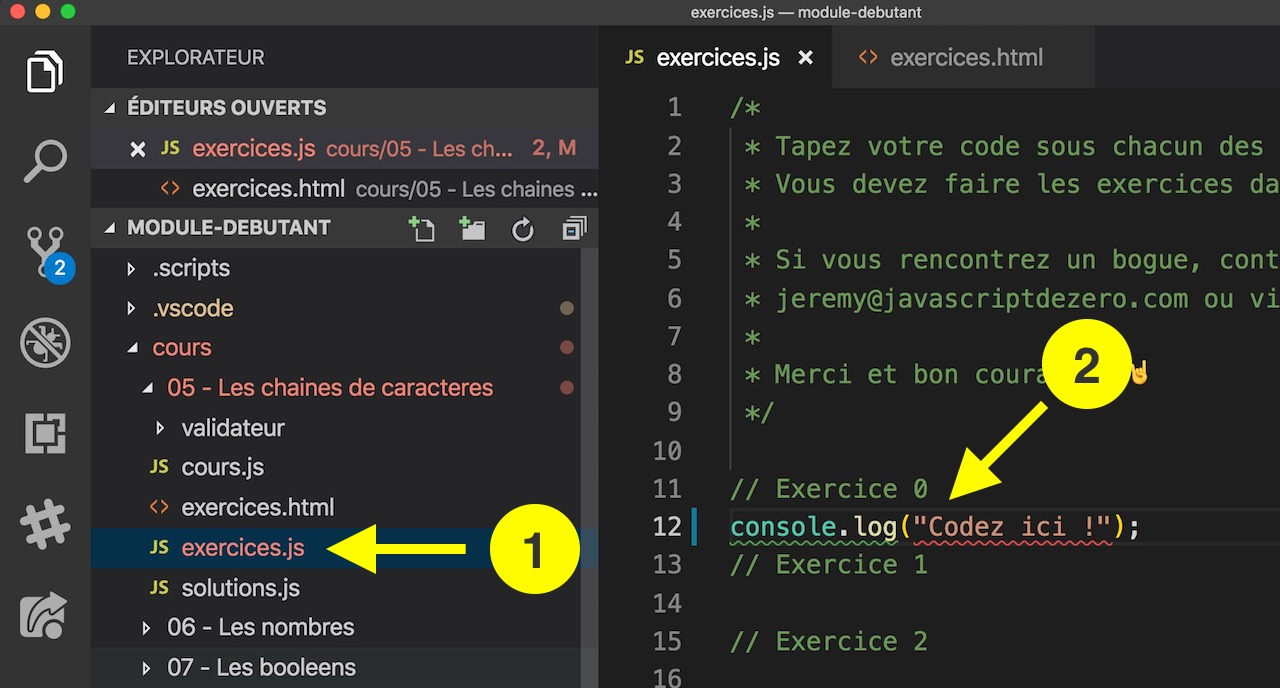
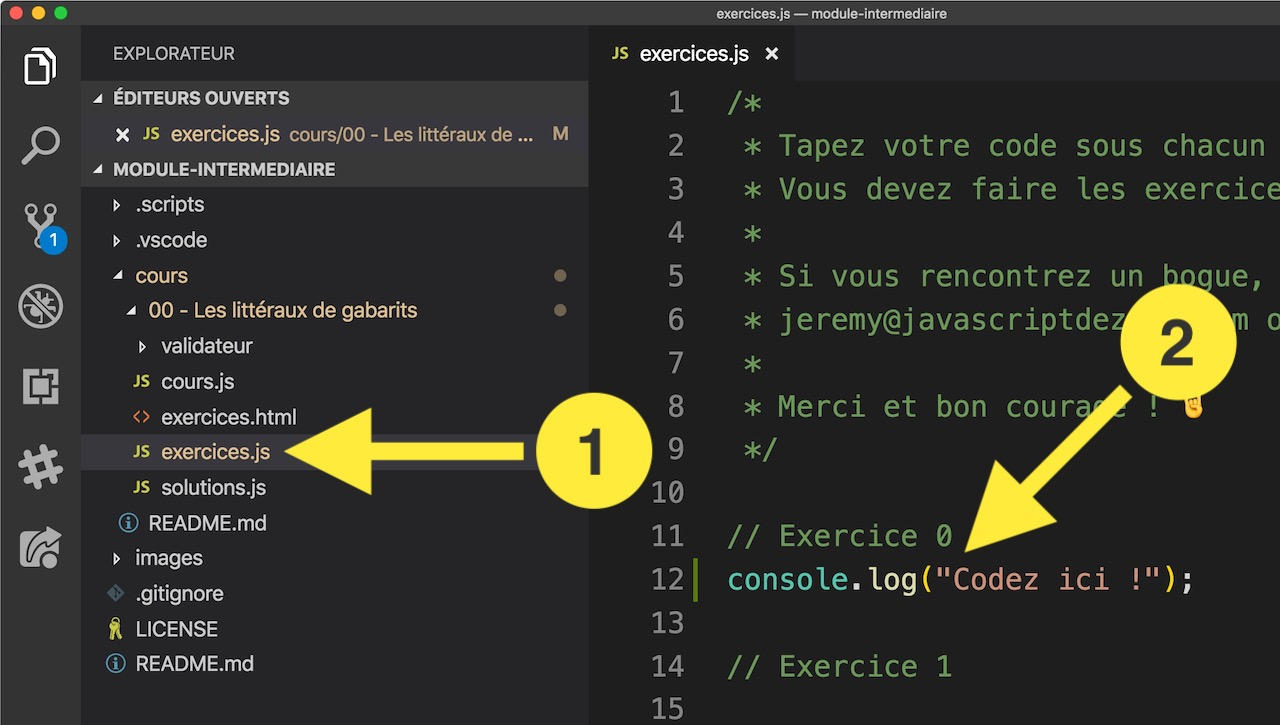
Utilisation de screenshots du module intermédiaire pour la doc

diff --git a/cours/README.md b/cours/README.md
@@ -29,7 +29,7 @@ Voici les instructions à suivre pour faire les exercices depuis Visual Studio C
    5. Une fois le téléchargement effectué vous aurez un nouveau répertoire **Documents/module-intermediaire**. Visual Studio Code va vous demander dans une popup en bas à droite si vous voulez ouvrir le dépôt cloné : cliquez sur le bouton **Ouvrir le dépôt**.
       ![capture d'écran ouvrir le dépot](../images/ouvrir-depot.jpg)
    6. Si vous ne voyez pas la popup de l'étape précédente, utilisez le menu **Fichier > Ouvrir** puis sélectionnez le répertoire **Documents/module-intermediaire**. Sélectionnez bien le répertoire **module-intermediaire** et pas **Documents** avant de cliquer sur `Ouvrir`.
-6. Dans ce nouveau projet, cliquez sur le répertoire **cours** puis sur le cours de votre choix par exemple **05 - Les chaines de caractères**.
+6. Dans ce nouveau projet, cliquez sur le répertoire **cours** puis sur le cours de votre choix par exemple **00 - Les littéraux de gabarits**.
    ![capture d'écran ouvrir le cours](../images/go-live.jpg)
 7. Sélectionnez le fichier **exercices.html** (ou un des fichiers se terminant par **.html**).
 8. Lancez le serveur Web en cliquant sur **Go Live** tout en bas dans la barre d'état bleue.
